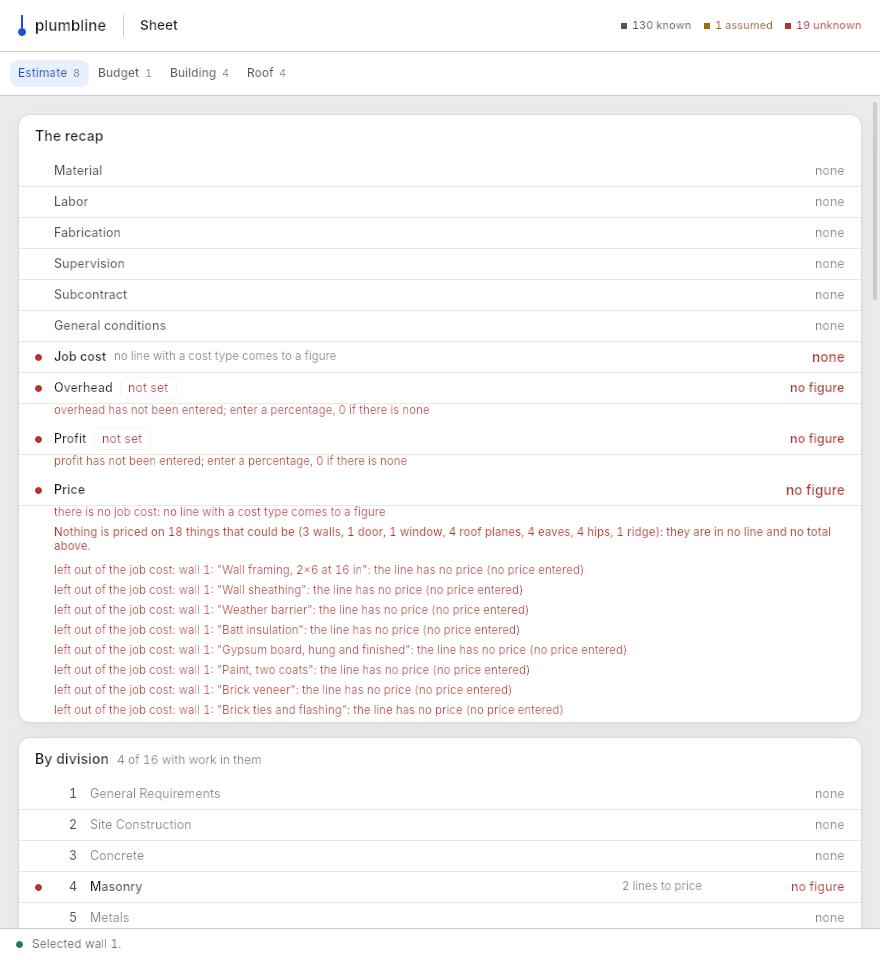
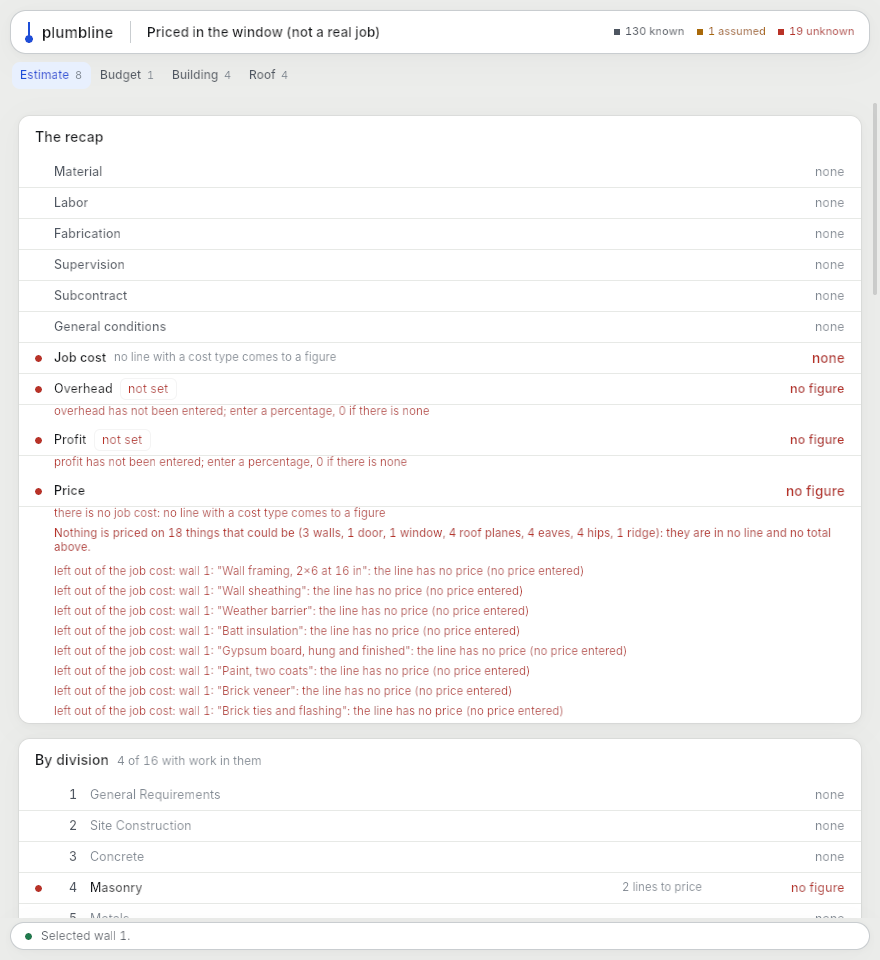
plumbline: the estimate window's heading and foot are round cards like the rest, and the heading carries the job's name
They were flat strips, the one line of the visual standard's section on that
window known to fail, and the heading said 'Sheet'. The price demonstration,
which finds and types in that window, passes on this build. 283 tests pass.

Claude-Session: https://claude.ai/code/session_01PMY5GTDksocgFxqnWiqF81

diff --git a/plumbline/crates/app/src/sheet.rs b/plumbline/crates/app/src/sheet.rs
@@ -17,8 +17,8 @@ use plumbline_world::{units, view, Discipline, Kind};
 
 /// How much of the sheet window its heading and its tabs take at the top, and its line
 /// of status at the foot: what scrolls shows between them.
-pub const HEAD_H: f32 = 100.0;
-pub const FOOT_H: f32 = 34.0;
+pub const HEAD_H: f32 = 102.0;
+pub const FOOT_H: f32 = 42.0;
 
 #[derive(Component)]
 pub struct SheetWindow;
@@ -170,15 +170,18 @@ pub fn rebuild(mut commands: Commands, doc: Res<Doc>, snap: Res<Snapshot>, fonts
     // longest line, and the right-hand columns fall off the edge.
     commands.spawn((Node { width: percent(100.0), max_width: percent(100.0), min_width: px(0.0), height: percent(100.0), flex_direction: FlexDirection::Column, overflow: Overflow::clip(), ..default() }, BackgroundColor(theme::canvas()), UiTargetCamera(cameras.sheet), SheetUi)).with_children(|root| {
         // The sheet's own title bar.
-        root.spawn((Node { height: px(52.0), flex_shrink: 0.0, padding: UiRect::horizontal(px(18.0)), align_items: AlignItems::Center, column_gap: px(12.0), border: UiRect::bottom(px(1.0)), overflow: Overflow::clip(), ..default() }, BackgroundColor(theme::panel()), BorderColor::all(theme::hairline()))).with_children(|bar| {
+        // A round card lifted off the page, as the model window's bar is, with the job's
+        // name in it (it said "Sheet", which is this program's word and nobody's job).
+        root.spawn((rounded(Node { height: px(44.0), flex_shrink: 0.0, margin: UiRect { left: px(theme::GAP), right: px(theme::GAP), top: px(theme::GAP), bottom: px(0.0) }, padding: UiRect::horizontal(px(14.0)), align_items: AlignItems::Center, column_gap: px(12.0), border: UiRect::all(px(1.0)), overflow: Overflow::clip(), ..default() }, theme::PANEL_RADIUS), BackgroundColor(theme::panel()), BorderColor::all(theme::hairline()), theme::card_shadow())).with_children(|bar| {
             wordmark(bar, fonts);
             bar.spawn((Node { width: px(1.0), height: px(22.0), margin: UiRect::horizontal(px(4.0)), flex_shrink: 0.0, ..default() }, BackgroundColor(theme::hairline())));
-            bar.spawn(text(fonts, "Sheet", 13.5, Weight::Semibold, theme::ink()));
+            bar.spawn((theme::name(fonts, one_line(&snap.title, 44), 13.5, Weight::Semibold, theme::ink()), TextLayout::no_wrap()));
             bar.spawn(Node { flex_grow: 1.0, ..default() });
             tally_chips(bar, fonts, snap.tally);
         });
         // The tabs.
-        root.spawn((Node { flex_shrink: 0.0, padding: UiRect::axes(px(10.0), px(8.0)), column_gap: px(1.0), border: UiRect::bottom(px(1.0)), overflow: Overflow::clip(), ..default() }, BackgroundColor(theme::panel()), BorderColor::all(theme::hairline()))).with_children(|tabs| {
+        // The tabs lie on the page itself, under the card: no strip behind them.
+        root.spawn((Node { flex_shrink: 0.0, padding: UiRect::axes(px(12.0), px(8.0)), column_gap: px(1.0), overflow: Overflow::clip(), ..default() }, BackgroundColor(Color::NONE))).with_children(|tabs| {
             // The estimate first: it is what the job is for. Then what is to verify and
             // what clashes; then the takeoff, by what was taken off.
             let mut all = vec![(Tab::Estimate, "Estimate".to_string(), snap.estimate.as_ref().map(|e| e.lines.len()).unwrap_or(0))];
@@ -237,7 +240,7 @@ pub fn rebuild(mut commands: Commands, doc: Res<Doc>, snap: Res<Snapshot>, fonts
         // The last thing that happened. It cannot push the sheet wider than its window.
         let first = one_line(&doc.message, 110);
         let (tone_dot, ink) = tone_ink(doc.tone);
-        root.spawn((Node { height: px(32.0), flex_shrink: 0.0, padding: UiRect::horizontal(px(16.0)), align_items: AlignItems::Center, column_gap: px(9.0), border: UiRect::top(px(1.0)), overflow: Overflow::clip(), ..default() }, BackgroundColor(theme::panel()), BorderColor::all(theme::hairline()))).with_children(|bar| {
+        root.spawn((rounded(Node { height: px(28.0), flex_shrink: 0.0, margin: UiRect { left: px(theme::GAP), right: px(theme::GAP), top: px(4.0), bottom: px(theme::GAP) }, padding: UiRect::horizontal(px(14.0)), align_items: AlignItems::Center, column_gap: px(9.0), border: UiRect::all(px(1.0)), overflow: Overflow::clip(), ..default() }, theme::BUTTON_RADIUS + 6.0), BackgroundColor(theme::panel()), BorderColor::all(theme::hairline()), theme::card_shadow())).with_children(|bar| {
             bar.spawn((rounded(Node { width: px(7.0), height: px(7.0), flex_shrink: 0.0, ..default() }, 4.0), BackgroundColor(tone_dot)));
             bar.spawn(Node { flex_grow: 1.0, flex_basis: px(0.0), min_width: px(0.0), overflow: Overflow::clip(), ..default() }).with_children(|m| words(m, fonts, first, 12.0, Weight::Regular, ink));
         });

diff --git a/plumbline/STATUS.md b/plumbline/STATUS.md
@@ -5183,3 +5183,11 @@ of it clear of the tool bar (it was the one thing named as not right in that pic
 `demos/tradesw.sh` rerun on this build: all ten measurements as wanted, the price
 unchanged; its pictures in `demos/captured/layers/` are of this build. 283 tests pass.
 
+**The estimate window's heading and foot (2026-11-13).** They were flat strips, the
+one line of VISUAL.md section F named as failing. They are round cards lifted off the
+page like its tables; the tabs lie on the page; the heading carries the job's name
+where it said "Sheet". Seen: `demos/captured/layers/estimate-window.png` (the made-up
+whole house: the recap, then the sixteen divisions with Concrete at 9 lines and
+$32,485.40). `demos/pricew.sh`, which finds and types in that window, passes on this
+build; its pictures in `demos/captured/price/` are of this build. 283 tests pass.
+

diff --git a/plumbline/VISUAL.md b/plumbline/VISUAL.md
@@ -133,9 +133,9 @@ themselves are named at the top of `crates/app/src/theme.rs`.
 3. **What can be typed is a field on its own line**, and looks like one.
 4. **It belongs to the same program.** Round corners, the same type, the same accent,
    the same depth. Dense text sits on a surface thick enough to read on; the estimate
-   is not glass, and it is not a grey web page either. (As of this writing its
-   tables are round-cornered sheets lifted off the page and its fields are round;
-   its heading, its tabs and its foot are still flat strips, and fail this line.)
+   is not glass, and it is not a grey web page either. (Since 2026-11-13 its
+   heading and its foot are round cards lifted off the page like its tables, its
+   tabs lie on the page, and the heading carries the job's name.)
 
 ## How a screen is judged
 
